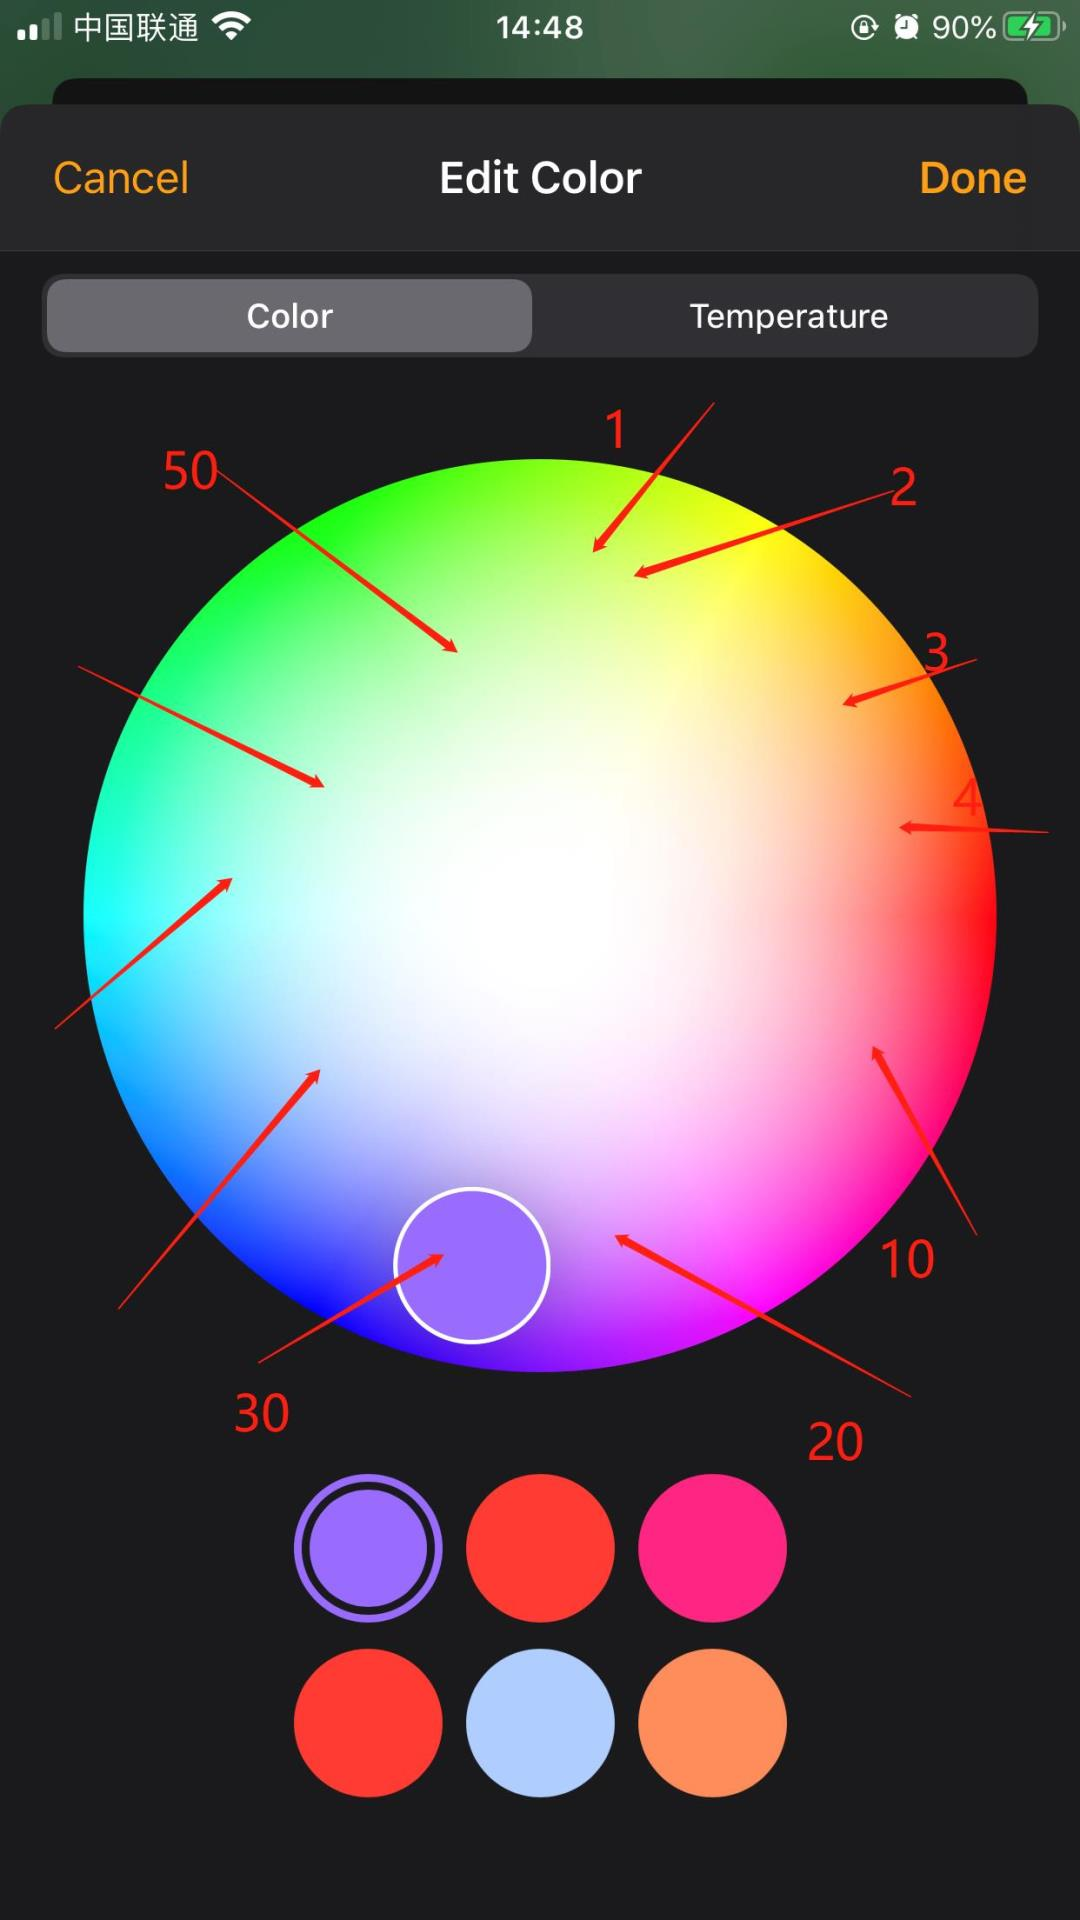
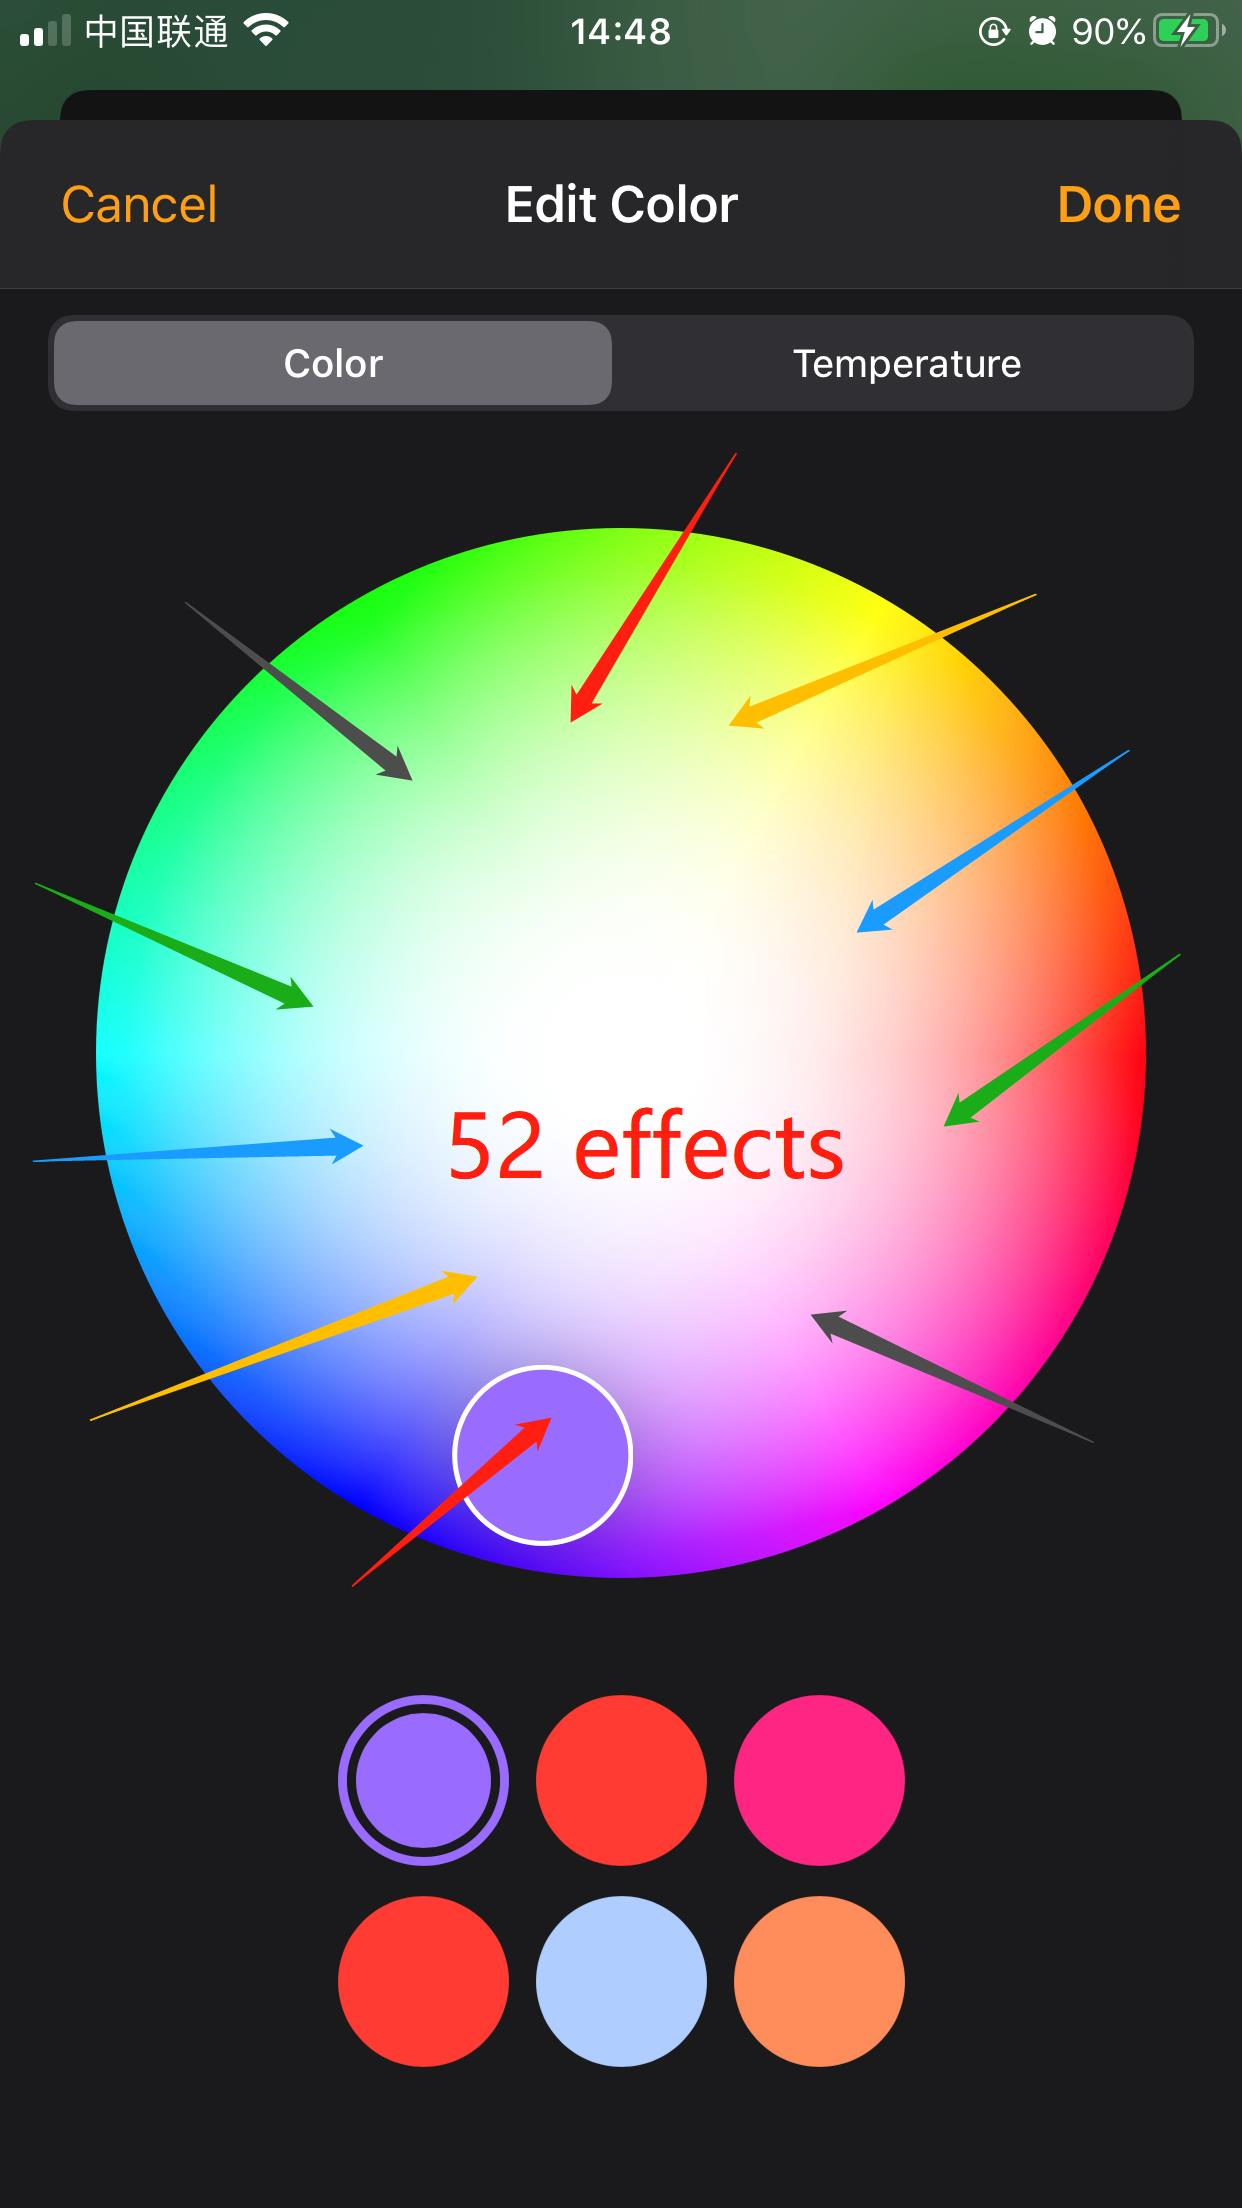
update doc

diff --git a/zh-cn/guide.md b/zh-cn/guide.md
@@ -20,7 +20,7 @@ HassLight LED 控制器可让您将LED灯条连接到智能家居，并通过"Si
 2. 将电源线连接到控制器。
  
     **单击**控制器上的按钮以将其打开/关闭。  
-    **双击**控制器上的按钮以切换预设主题。 （白色，圣诞节，万圣节，彩虹，闪烁，眨眼）
+    **双击**控制器上的按钮以切换预设主题。 （白色，圣诞节，万圣节，彩虹，小星星，烟花）
 
 3. 使用iPhone / iPad将控制器配置连接到您的家庭WiFi网络。
 
@@ -103,11 +103,13 @@ HassLight LED 控制器可让您将LED灯条连接到智能家居，并通过"Si
 
 <!-- tabs:end -->
 
-5. **(iOS 13 Only)** How to change the Group & Stacked "Single Tile" to "Seperate Tile", aka. iOS 13 style to iOS 12 style
+5. **(iOS 13 适用)** 如何改变界面 "单一板块 整体显示" 和 "单独版块 分开显示" ？ 即家庭APP的iOS 13风格和iOS 12风格
 
-  First tap "HASSLIGHT", then scrol down to the bottom, tap "Show as Seperate Tiles", then you'll see picture 5.3 which is the iOS 12 style.  
+  * **iOS 12 "单独面板 / 拆分面板"风格**  
+  首先点击 "HASSLIGHT"， 然后向下滑动到低端， 点击 "作为单独面板分开显示"， 然后就能看到如下所示的iOS 12风格 (图5.3).  
 
-  To switch it back to "Single Tile", the steps are the same. First long tap any "Tile", then scrol down to the bottom, then tap "Show as Single Tile". 
+  * **iOS 13 "单一面板 / 整体面板"风格**  
+  首先点击"HASSLIGHT" (或 任一单独面板)， 然后向下滑动到低端， 点击 "作为单一面板整体显示"，然后就能看到如下所示的iOS 13风格 (图5.1).  
 
 5.1 | 5.2 | 5.3 
 -- | -- | -- 
@@ -116,39 +118,46 @@ HassLight LED 控制器可让您将LED灯条连接到智能家居，并通过"Si
 
 6. 更改LED颜色/效果/速度等
 
-  Tiles info:  
-  **HASSLIGHT**: The light bulb, The LED Strip, controls color, brightness  
-  **A HASSLIGHT FX SPEED**: The virtual light bulb, controls 52 hidden effects, when change this tile's brightness it actually changes the current animation speed  
+  面板介绍: 
 
-  **Christmas**: an animation effect, plus brightness  
-  **Fireworks**: an animation effect, plus brightness  
-  **Halloween**: an animation effect, plus brightness  
-  **Rainbow**: an animation effect, plus brightness  
-  **Twinkle**: an animation effect, plus brightness  
-  **Warm White**: an animation effect, plus brightness  
+  **HASSLIGHT**: LED 灯串/灯带， 客厅调节颜色，亮度  
+  **A HASSLIGHT FX SPEED**: 这是特效面板， 可以设置52个隐藏特效，修改这个面板的亮度其实是调节当前动画效果的速度
 
-6.1. How to change the LED color or brightness?  
+  **Christmas**: 预设 圣诞节特效， 亮度调节  
+  **Fireworks**: 预设 烟花特效， 亮度调节  
+  **Halloween**: 预设 万圣节特效， 亮度调节  
+  **Rainbow**: 预设 彩虹特效， 亮度调节  
+  **Twinkle**: 预设 小星星特效， 亮度调节  
+  **Warm White**: 预设 暖白纯色， 亮度调节  
 
-  First turn off any effect which may be on. Then tap the "HASSLIGHT" tile to set the solid color mode.
-  Next "Long tap" the "HASSLIGHT" title to edit the color you need. Steps are shown below.
+  > 上面是默认的面板名称，你可以随意重命名，以获得更加灵活的Siri语音控制体验。 举例:  
+  * 把"HASSLIGHT"命名成"节日彩灯"  -->  "Hey Siri, 打开节日彩灯，把节日彩灯调成粉色，把节日彩灯亮度调成50%"
+  * 把"Christmas"命名成"圣诞树"    --> "Hey Siri, 打开圣诞树"，
+  * 把"Rainbow"命名成"彩虹桥"      --> "Hey Siri, 打开彩虹桥"  
 
-  Changing the brightness is much simpler, just "Tap and Scroll" the brightness bar up and down. (the step2 pictures)
+6.1. 如何修改LED灯带的颜色和亮度？  
 
-&nbsp; | Step 1 | Step 2 | Step 3 
+  * 首先应该关闭当前已打开的特效，仅打开"HASSLIGHT"这样灯带进入纯色模式，参考步骤1图片  
+  * **长按**"HASSLIGHT"，就能打开如下图步骤2图片所示的界面
+  * 点步骤2颜色圆圈里的**编辑**，出现如下图步骤3图片所示的色盘，编辑完的颜色会出现在常用颜色里
+
+  * 更改亮度很简单，按住并且滑动步骤2图中的亮度指示条即可。
+
+&nbsp; | 步骤 1 | 步骤 2 | 步骤 3 
 -- | -- | -- | -- 
 Seperate Tile on iOS 13 or iOS 12 | ![](../imgs/ios/color_12.jpg ':size=400') | ![](../imgs/ios/color_12_1.jpg ':size=400') | ![](../imgs/ios/color.jpg ':size=400') 
 Single Tile on iOS 13 | ![](../imgs/ios/color_13.jpg ':size=400') | ![](../imgs/ios/color_13_1.jpg ':size=400') | ![](../imgs/ios/color.jpg ':size=400') 
 
-6.2. How to change the LED effects?  
+6.2. 如何修改LED灯带特效？  
   
 
-  **The Preset Effects**
+  **预设特效**
 
-  Changing the preset effects is quite abvious, just "Tap" Christmas, Fireworks, Halloween, Rainbow, Twinkle, Warm White 
+  Changing the preset effects is quite abvious， just "Tap" Christmas， Fireworks， Halloween， Rainbow， Twinkle， Warm White 
 
-  **The Hidden Effects**  
+  **隐藏特效**  
 
-  There are 52 hidden effects, you can access them by edit "A HASSLIGHT FX SPEED" color, the edit steps are similar to edit the solid color, only difference is that current tile is "A HASSLIGHT FX SPEED". 
+  There are 52 hidden effects， you can access them by edit "A HASSLIGHT FX SPEED" color， the edit steps are similar to edit the solid color， only difference is that current tile is "A HASSLIGHT FX SPEED". 
   
   There is no corresponding text shown the effect name though. You can just see how the LED strip response to your change.
   

diff --git a/guide.md b/guide.md
@@ -20,7 +20,7 @@ We also made it quite easy to flash the MQTT based firmware, in order to interac
 2. Connect the power cable to the controller. 
  
    **Single click** the button on the controller to toggle it on/off.  
-   **Double click** the button on the controller to switch the build in themes. (White, Blink, Christmas, Halloween, Rainbow, Twinkle)
+   **Double click** the button on the controller to switch the build in themes. (White, Christmas, Fireworks, Halloween, Rainbow, Twinkle)
 
 3. Use an iPhone/iPad to configure the controller to connect to your home WiFi network.
 
@@ -106,9 +106,11 @@ We also made it quite easy to flash the MQTT based firmware, in order to interac
 
 5. **(iOS 13 Only)** How to change the Group & Stacked "Single Tile" to "Seperate Tile", aka. iOS 13 style to iOS 12 style
 
-  First tap "HASSLIGHT", then scrol down to the bottom, tap "Show as Seperate Tiles", then you'll see picture 5.3 which is the iOS 12 style.  
+ * **iOS 12 "Seperate Tile"**  
+  First tap "HASSLIGHT", then scroll down to the bottom, tap "Show as Seperate Tiles", then you'll see picture 5.3 which is the iOS 12 style.  
 
-  To switch it back to "Single Tile", the steps are the same. First long tap any "Tile", then scrol down to the bottom, then tap "Show as Single Tile". 
+ * **iOS 13 "Single Tile"**  
+  To switch it back to "Single Tile", the steps are the same. First long tap any "Tile", then scroll down to the bottom, then tap "Show as Single Tile". 
 
 5.1 | 5.2 | 5.3 
 -- | -- | -- 
